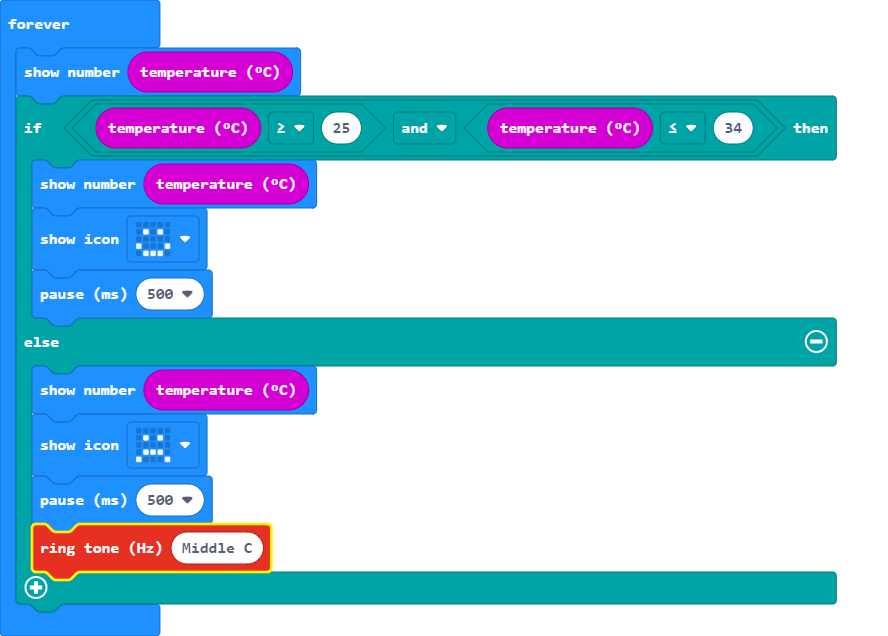
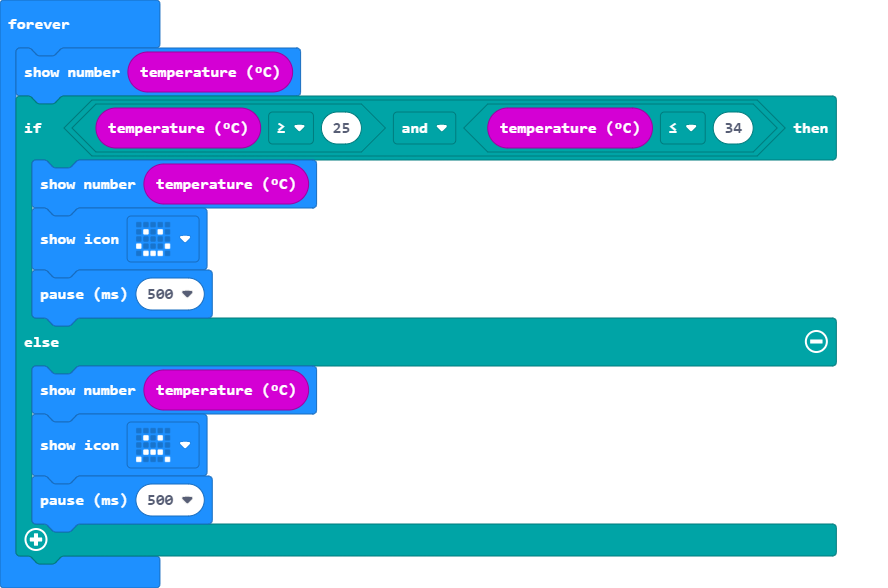
Update pxt.json, main.blocks, main.ts, main.py

Changed region(s): [[0.0, 0.0306, 0.9426, 0.9796]]

diff --git a/main.ts b/main.ts
@@ -1,4 +1,4 @@
-basic.forever(function () {
+basic.forever(function on_forever() {
     basic.showNumber(input.temperature())
     if (input.temperature() >= 25 && input.temperature() <= 34) {
         basic.showNumber(input.temperature())
@@ -8,6 +8,6 @@ basic.forever(function () {
         basic.showNumber(input.temperature())
         basic.showIcon(IconNames.Sad)
         basic.pause(500)
-        music.ringTone(262)
     }
+    
 })

diff --git a/main.py b/main.py
@@ -1,6 +1,6 @@
 def on_forever():
     basic.show_number(input.temperature())
-    if input.temperature() > 25:
+    if input.temperature() >= 25 and input.temperature() <= 34:
         basic.show_number(input.temperature())
         basic.show_icon(IconNames.HAPPY)
         basic.pause(500)
